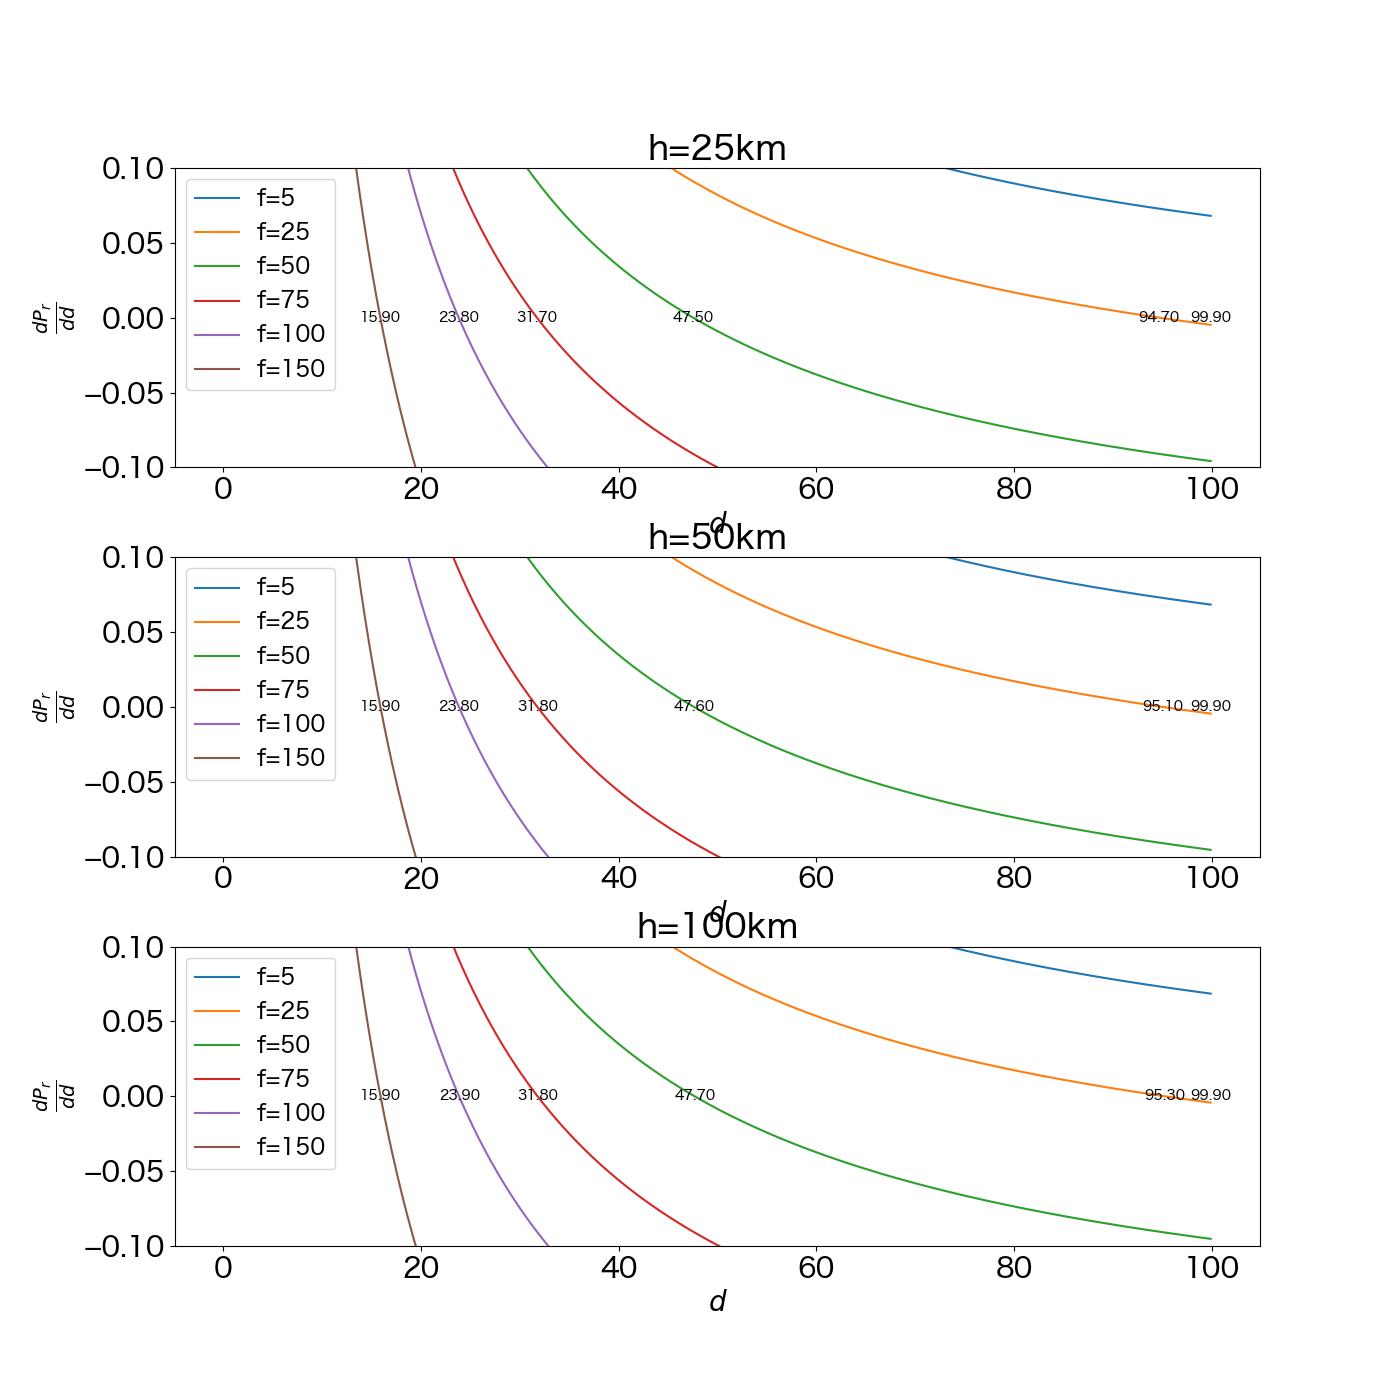
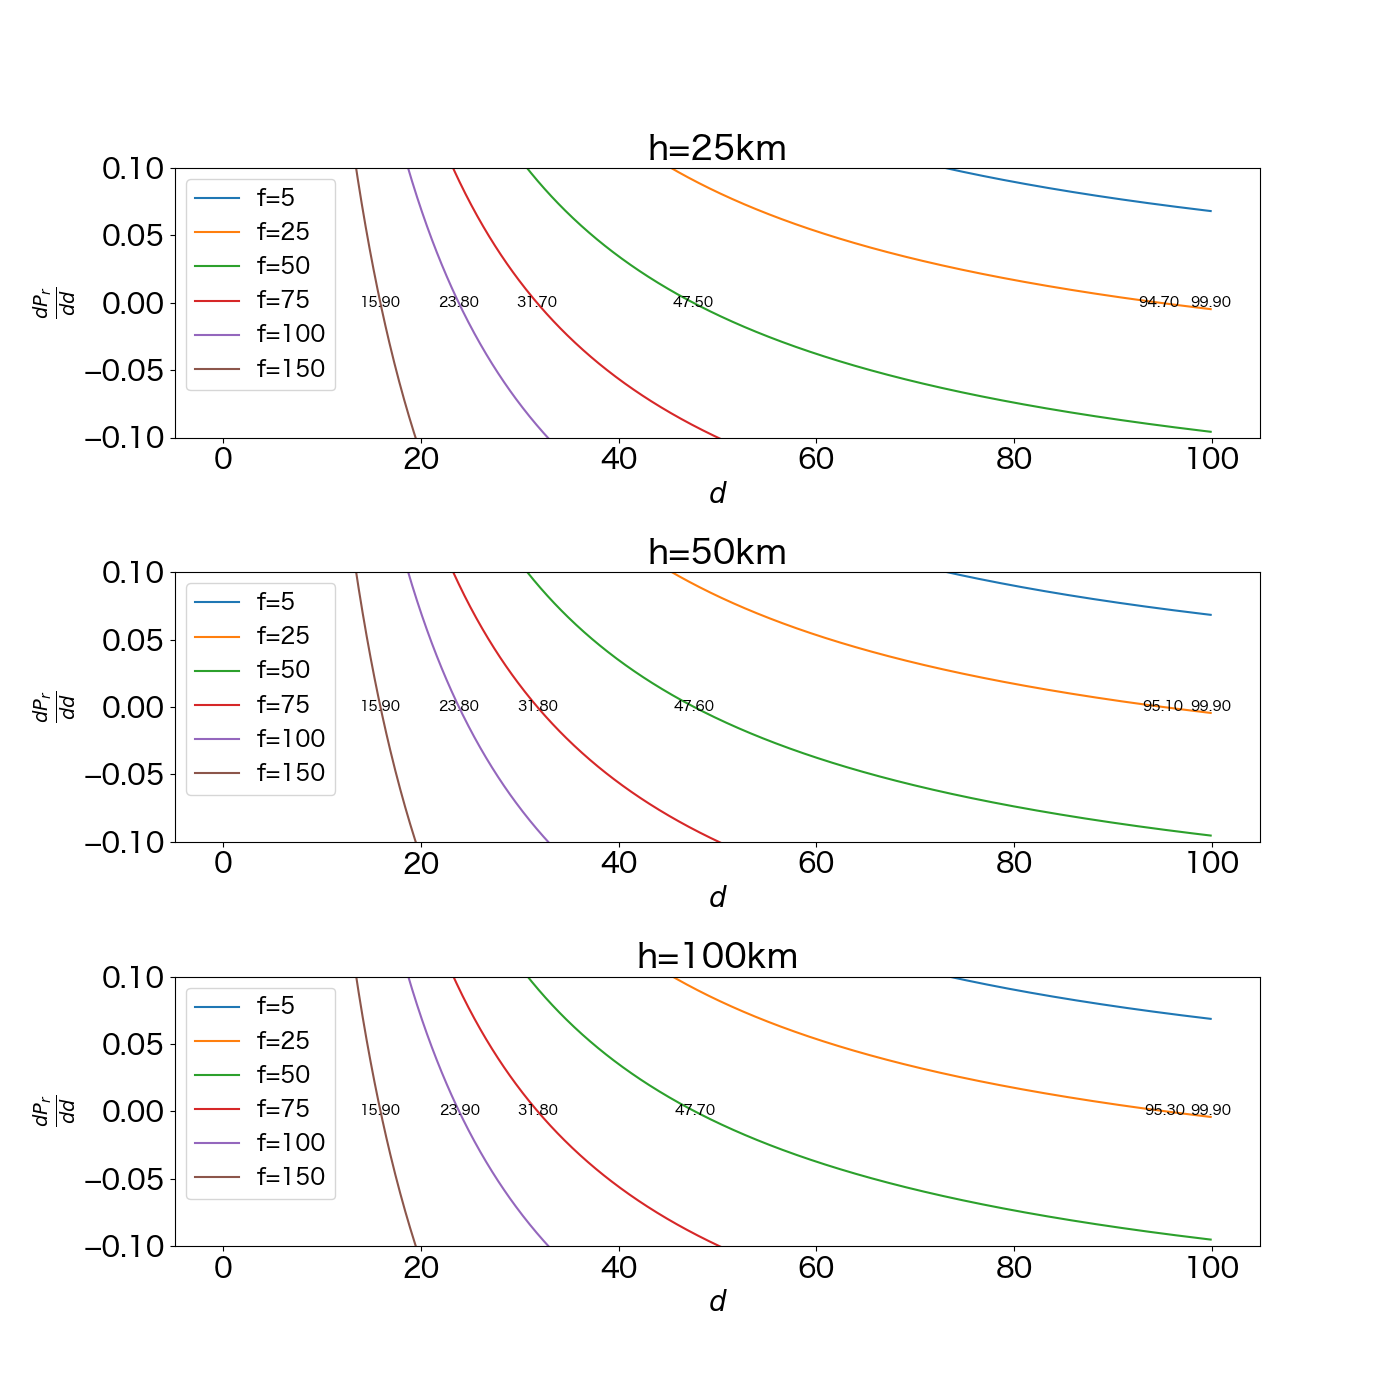
hspace変更

diff --git a/calc_dPr_dd.py b/calc_dPr_dd.py
@@ -34,7 +34,7 @@ f_list = [5, 25, 50, 75, 100, 150]
 
 plt.figure(figsize=(14, 14))
 plt.subplots_adjust(wspace=0.7)
-plt.subplots_adjust(hspace=0.3)
+plt.subplots_adjust(hspace=0.5)
 
     # dPr/ddの式を計算し、グラフをプロット
 for i in [1, 2, 3]:
